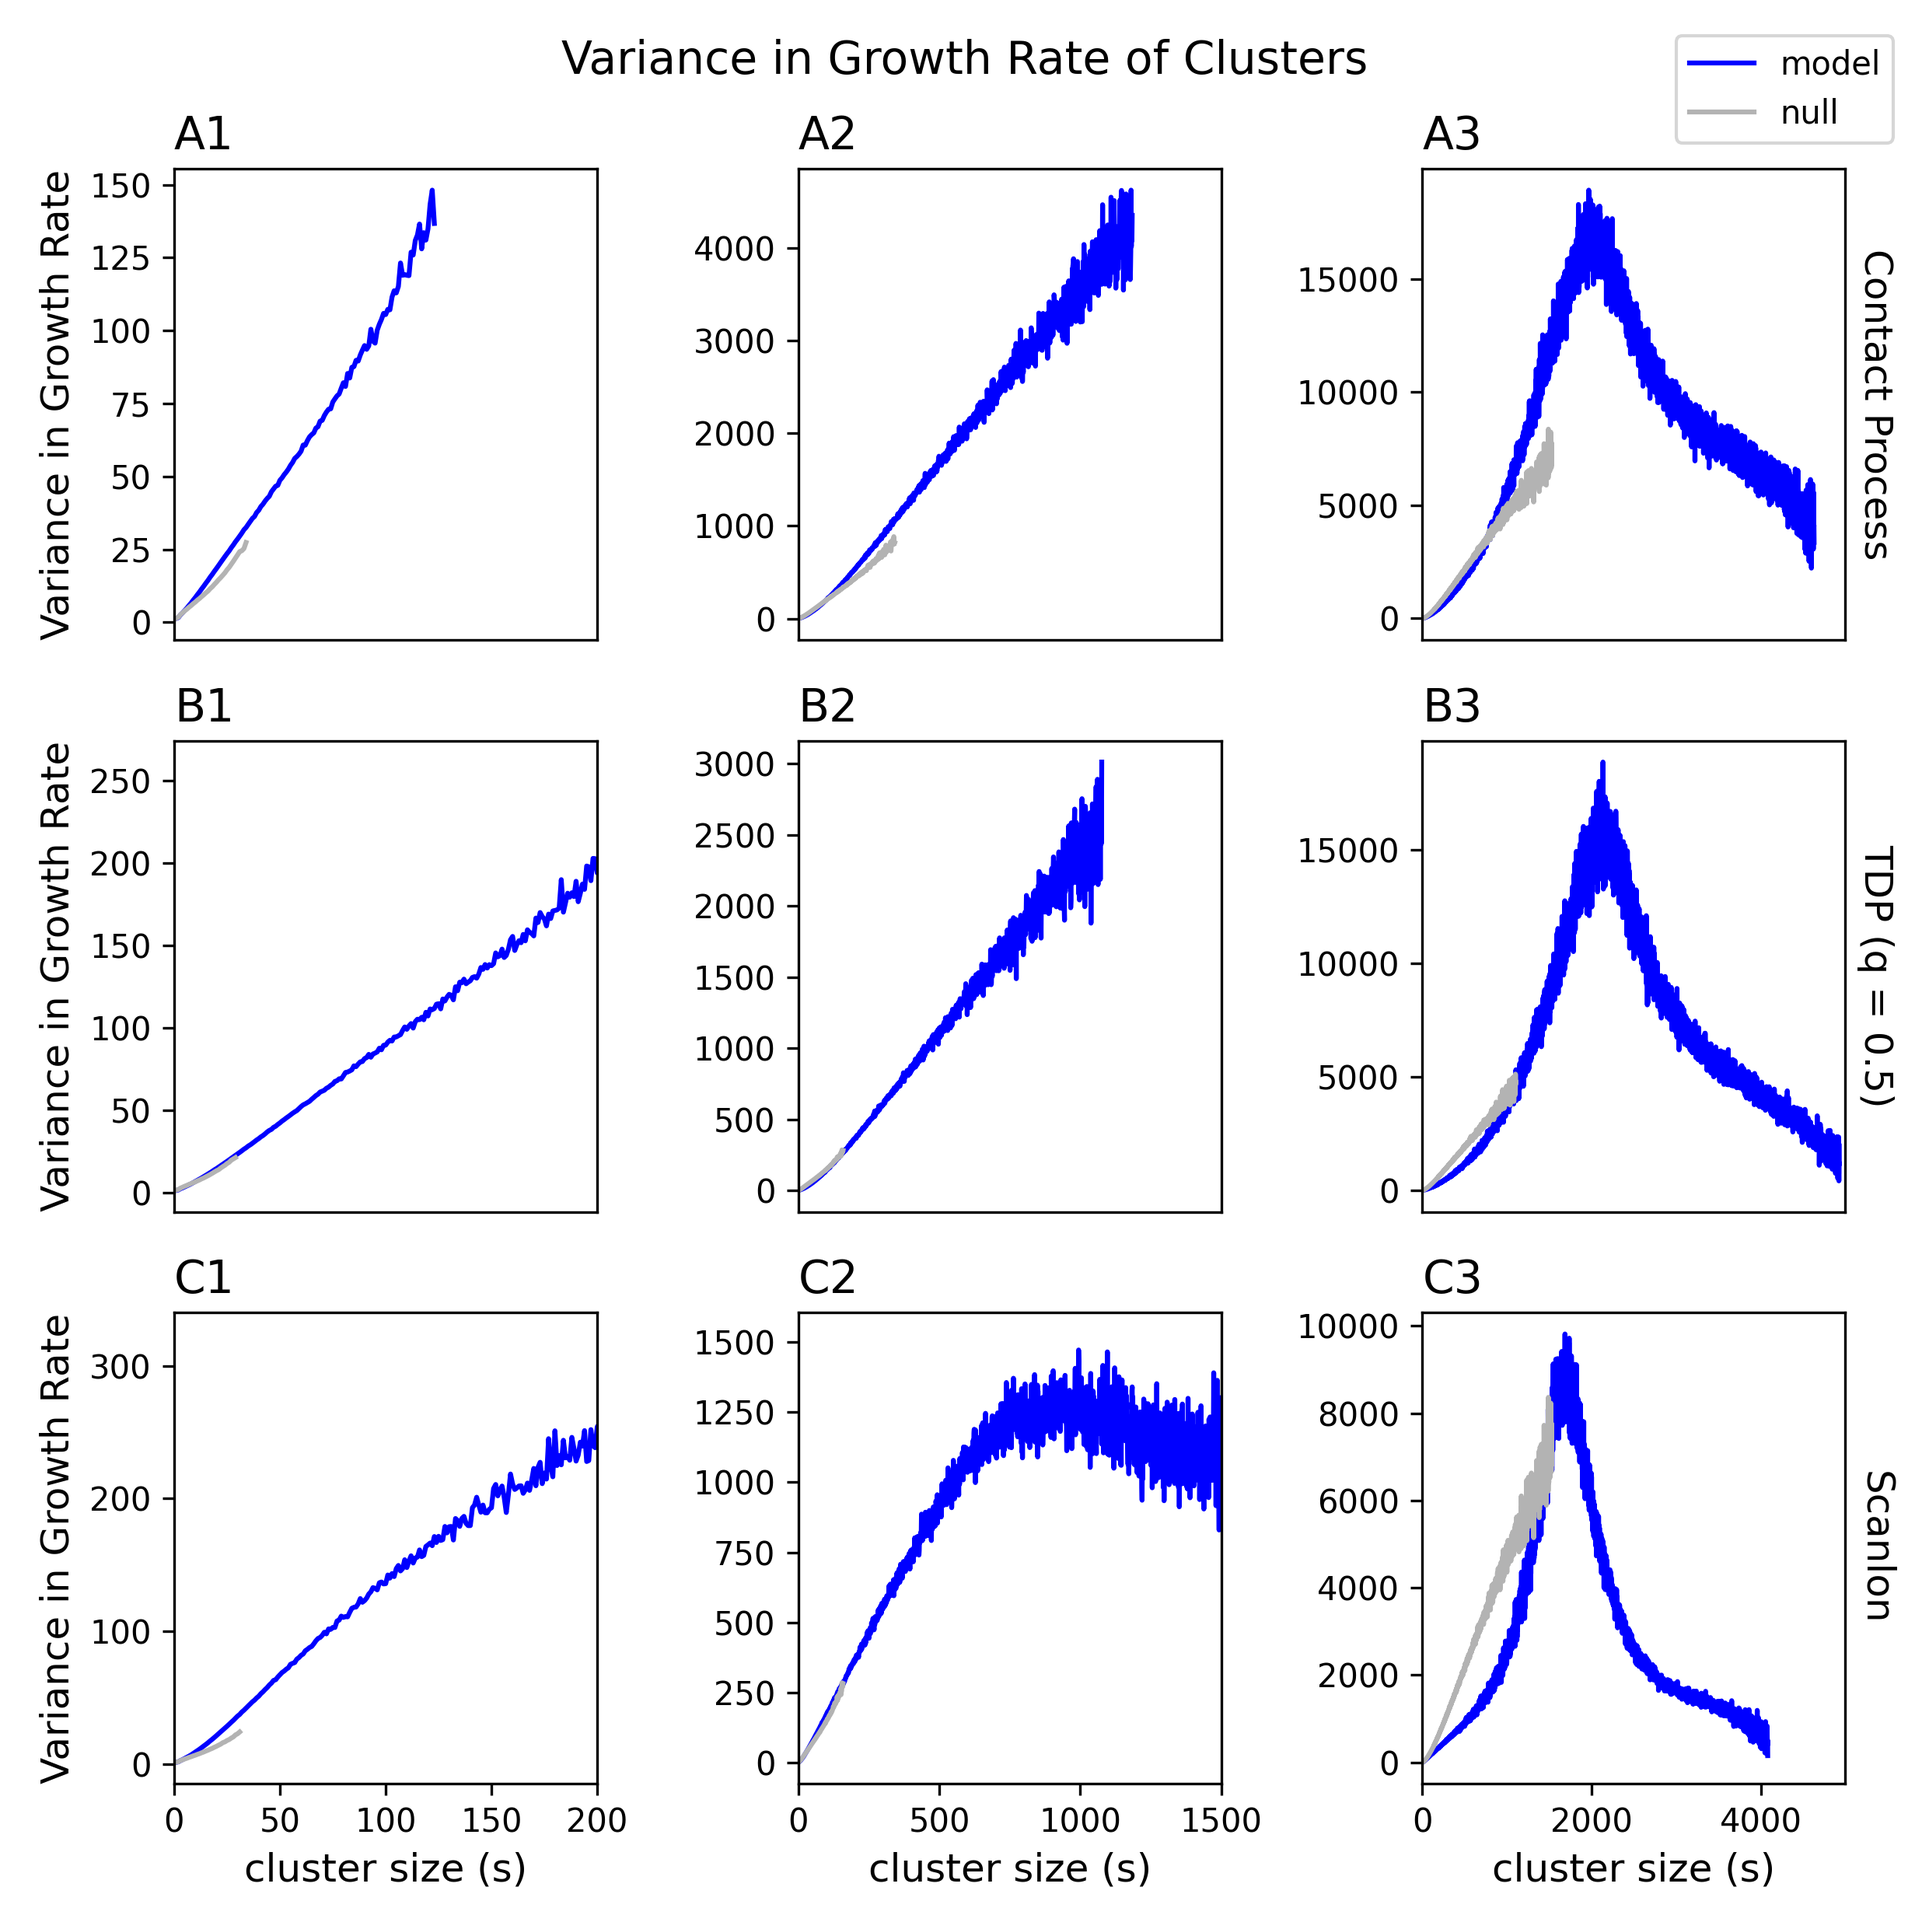
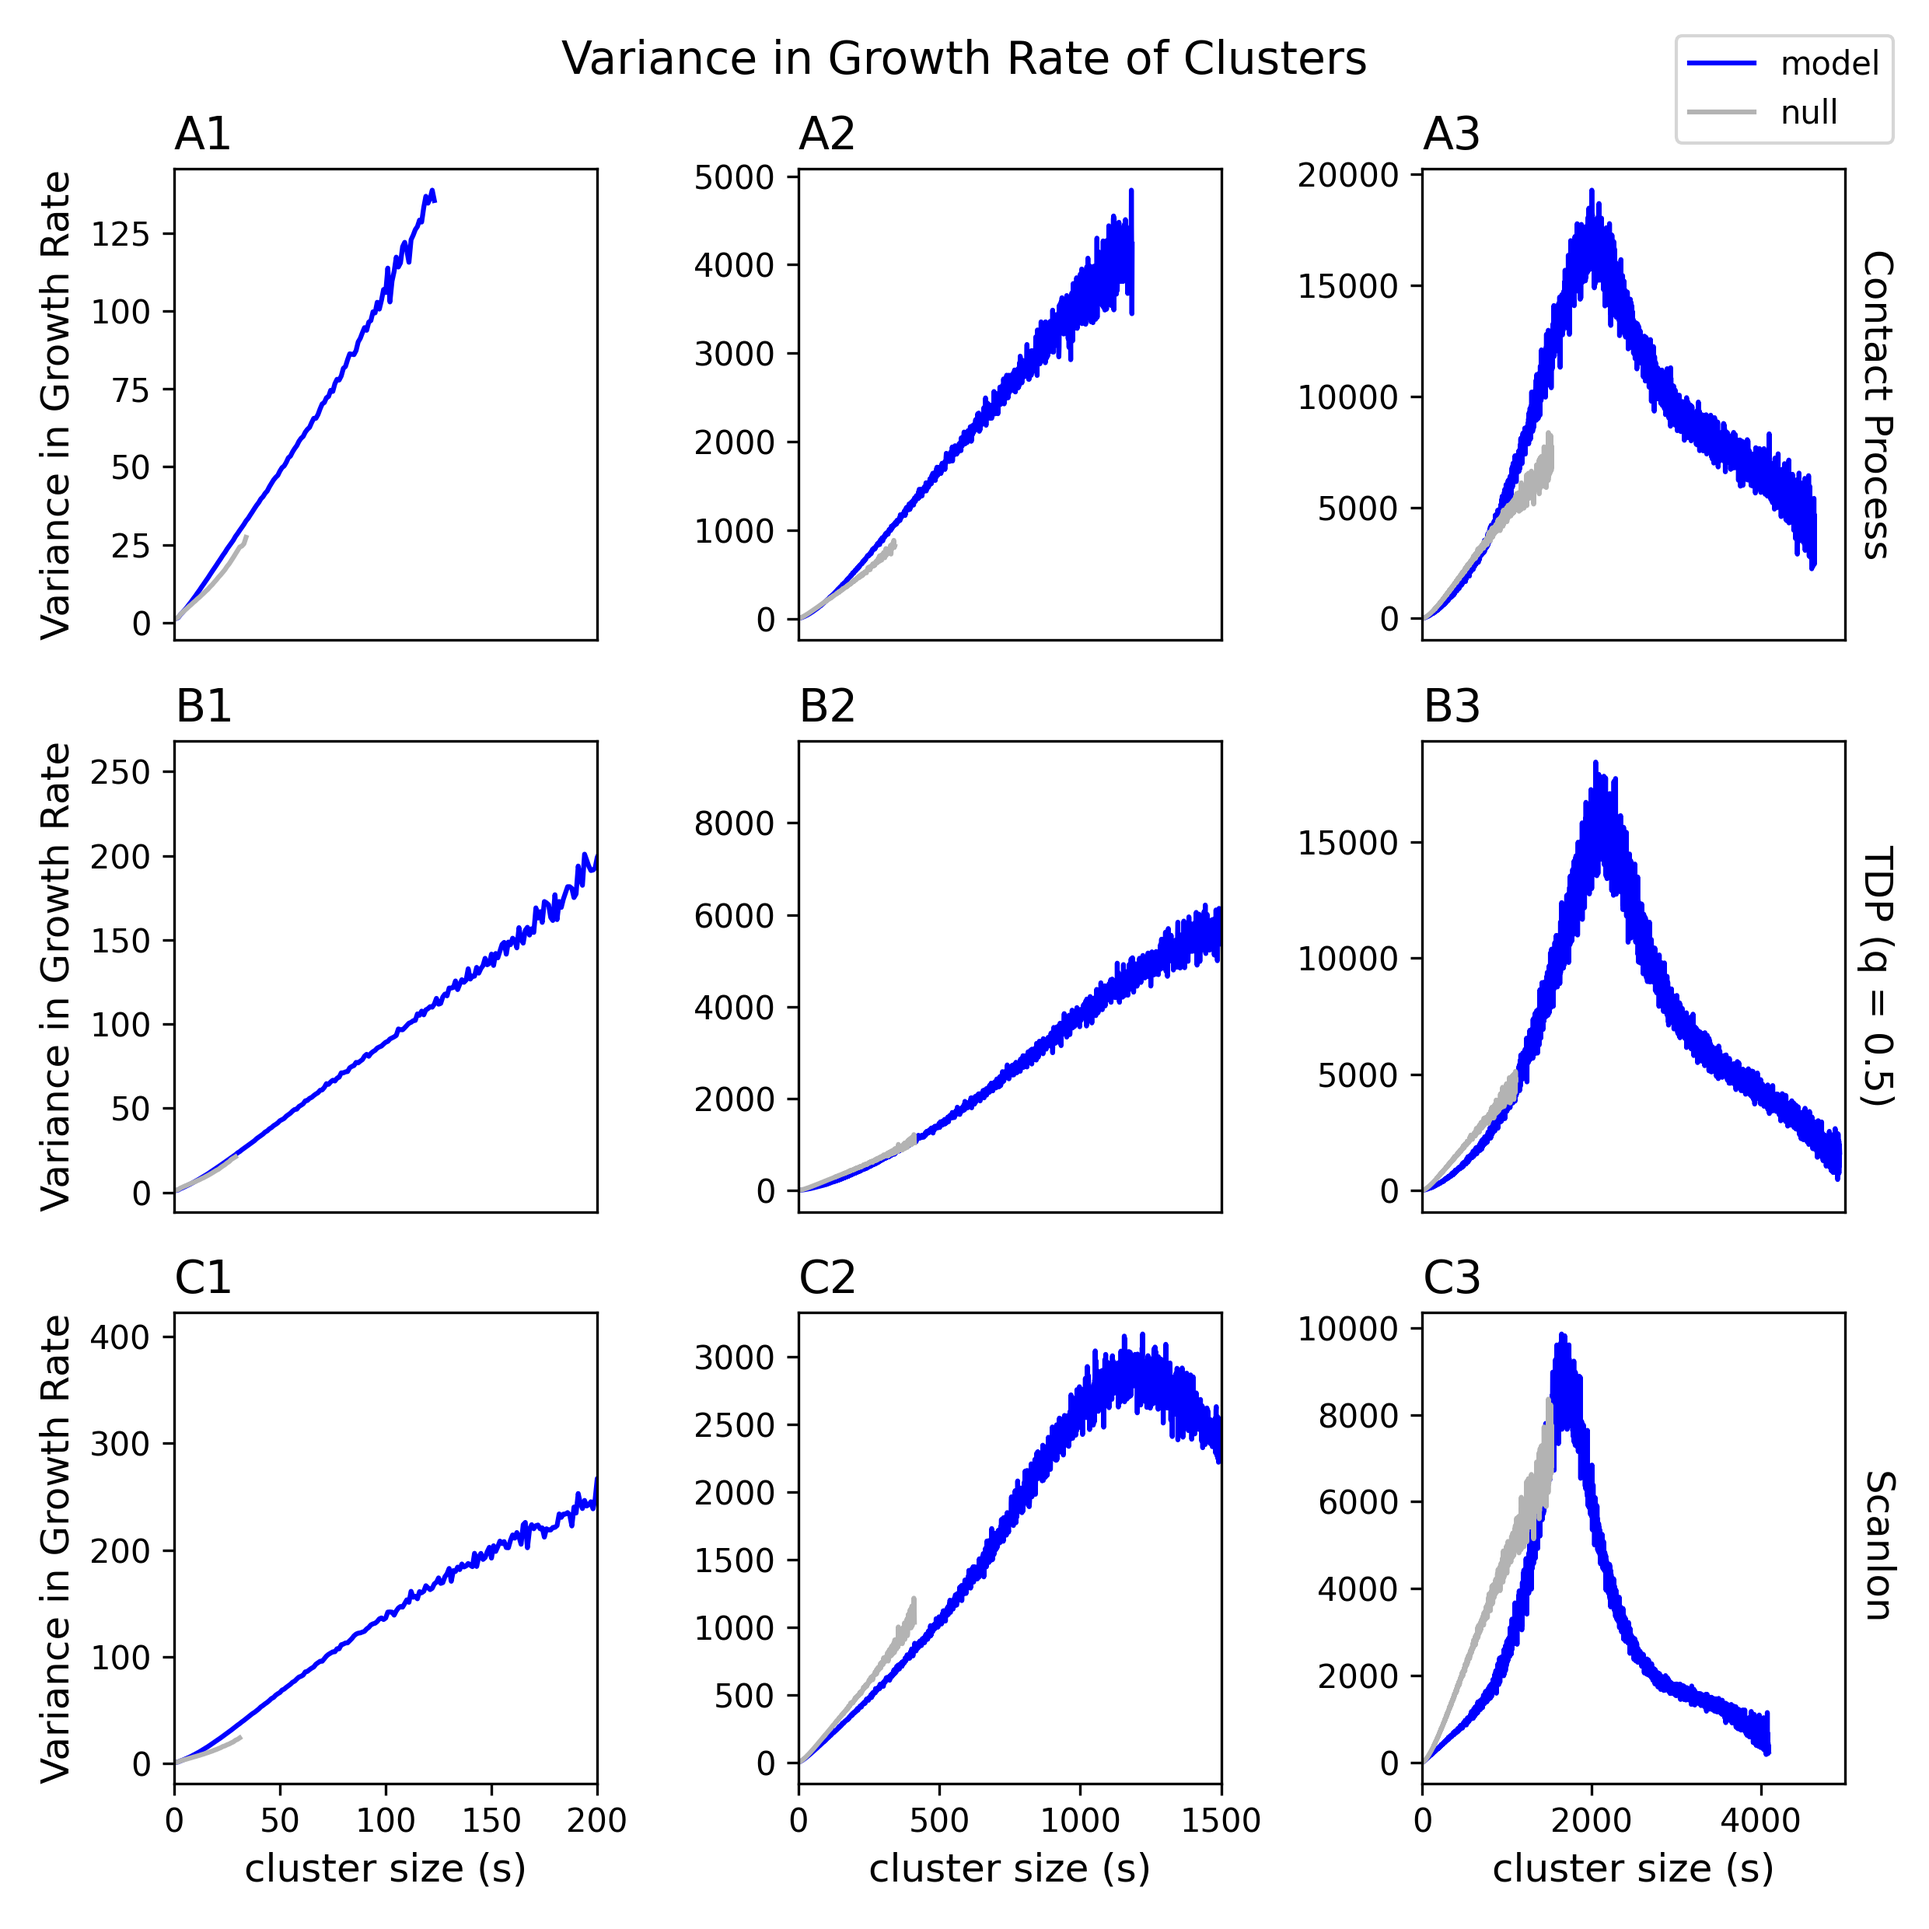
Updated main figures

diff --git a/plotters/fig4.py b/plotters/fig4.py
@@ -29,40 +29,40 @@ if __name__ == '__main__':
     model_datasets = []
     model_variables = []
 
-    # models.append(path.join("tricritical", "q0"))
-    # model_names.append("Contact Process")
-    # model_datasets.append("100x100_residue")
-    # model_params.append([0.65, 0.7, 0.72])
-    # model_densities.append([0.27, 0.48, 0.54])
-    # model_variables.append("p")
+    models.append(path.join("tricritical", "q0"))
+    model_names.append("Contact Process")
+    model_datasets.append("paper")
+    model_params.append([0.65, 0.7, 0.72])
+    model_densities.append([0.27, 0.48, 0.54])
+    model_variables.append("p")
     
-    # models.append(path.join("tricritical", "q0p5"))
-    # model_names.append("TDP (q = 0.5)")
+    models.append(path.join("tricritical", "q0p5"))
+    model_names.append("TDP (q = 0.5)")
+    model_datasets.append("paper")
+    model_params.append([0.51, 0.54, 0.55])
+    model_densities.append([0.25, 0.49, 0.53])
+    model_variables.append("p")
+
+    models.append(path.join("scanlon_kalahari"))
+    model_names.append("Scanlon")
+    model_datasets.append("paper")
+    model_params.append([500, 770, 830])
+    model_densities.append([0.26, 0.49, 0.54])
+    model_variables.append("rainfall")
+
+    # models.append(path.join("tricritical", "q0p25"))
+    # model_names.append("TDP (q = 0.25)")
     # model_datasets.append("100x100_residue")
-    # model_params.append([0.51, 0.53, 0.55])
-    # model_densities.append([0.25, 0.43, 0.53])
+    # model_params.append([0.59, 0.62, 0.64])
+    # model_densities.append([0.27, 0.45, 0.52])
     # model_variables.append("p")
 
-    # models.append(path.join("scanlon_kalahari"))
-    # model_names.append("Scanlon")
+    # models.append(path.join("tricritical", "q0p75"))
+    # model_names.append("TDP (q = 0.75)")
     # model_datasets.append("100x100_residue")
-    # model_params.append([500, 700, 830])
-    # model_densities.append([0.26, 0.43, 0.54])
-    # model_variables.append("rainfall")
-
-    models.append(path.join("tricritical", "q0p25"))
-    model_names.append("TDP (q = 0.25)")
-    model_datasets.append("100x100_residue")
-    model_params.append([0.59, 0.62, 0.64])
-    model_densities.append([0.27, 0.45, 0.52])
-    model_variables.append("p")
-
-    models.append(path.join("tricritical", "q0p75"))
-    model_names.append("TDP (q = 0.75)")
-    model_datasets.append("100x100_residue")
-    model_params.append([0.405, 0.41, 0.42])
-    model_densities.append([0.24, 0.38, 0.52])
-    model_variables.append("p")
+    # model_params.append([0.405, 0.41, 0.42])
+    # model_densities.append([0.24, 0.38, 0.52])
+    # model_variables.append("p")
 
     title_size = 14
     label_size = 12

diff --git a/plotters/fig2_exp.py b/plotters/fig2_exp.py
@@ -55,26 +55,24 @@ if __name__ == '__main__':
 
     models.append(path.join("tricritical", "q0"))
     model_names.append("Contact Process")
-    model_datasets.append("100x100_residue")
-    # model_params.append([0.65, 0.7, 0.72])
-    model_params.append([0.616, 0.618, 0.62])
+    model_datasets.append("paper")
+    model_params.append([0.65, 0.7, 0.72])
     model_densities.append([0.27, 0.48, 0.54])
     model_variables.append("p")
     
     models.append(path.join("tricritical", "q0p5"))
     model_names.append("TDP (q = 0.5)")
-    model_datasets.append("100x100_residue")
-    # model_params.append([0.51, 0.53, 0.55])
-    model_params.append([0.498, 0.5, 0.502])
-    model_densities.append([0.25, 0.43, 0.53])
+    model_datasets.append("paper")
+    model_params.append([0.51, 0.54, 0.55])
+    model_densities.append([0.25, 0.49, 0.53])
     model_variables.append("p")
 
-    # models.append(path.join("scanlon_kalahari"))
-    # model_names.append("Scanlon")
-    # model_datasets.append("100x100_residue")
-    # model_params.append([500, 700, 830])
-    # model_densities.append([0.26, 0.43, 0.54])
-    # model_variables.append("rainfall")
+    models.append(path.join("scanlon_kalahari"))
+    model_names.append("Scanlon")
+    model_datasets.append("paper")
+    model_params.append([500, 770, 830])
+    model_densities.append([0.26, 0.49, 0.54])
+    model_variables.append("rainfall")
 
     # models.append(path.join("tricritical", "q0p25"))
     # model_names.append("TDP (q = 0.25)")
@@ -144,14 +142,11 @@ if __name__ == '__main__':
 
             plt.ylim(10 ** (-10), 1)
             if j == 0:
-                # plt.xlim(1, 200)
-                plt.xlim(1, 100)
+                plt.xlim(1, 500)
             elif j == 1:
-                # plt.xlim(1, 1500)
-                plt.xlim(1, 100)
+                plt.xlim(1, 2000)
             elif j == 2:
-                # plt.xlim(1, 3000)
-                plt.xlim(1, 100)
+                plt.xlim(1, 3000)
 
             if row != num_rows - 1:
                 plt.xticks([])

diff --git a/plotters/fig5.py b/plotters/fig5.py
@@ -4,9 +4,10 @@ from tqdm import tqdm
 
 
 def load_residue_data(file_path, file_name, cluster_size):
+    print(file_path, file_name, cluster_size)
     residue_data = open(path.join(file_path, file_name), "r").readlines()
 
-    for data in residue_data[:-1]:
+    for data in residue_data:
         size, bins, freq = data.split(':')
         min_bin, max_bin = bins.split(',')
         freqs = list(map(int, freq.split(',')))
@@ -22,7 +23,7 @@ def load_residue_data(file_path, file_name, cluster_size):
 if __name__ == '__main__':
     results_path = path.join(path.dirname(__file__), "..", "results")
     cluster_sizes = [10, 50, 100]
-    position = 3
+    position = 1
 
     models = []
     model_names = []
@@ -32,15 +33,15 @@ if __name__ == '__main__':
 
     models.append(path.join("tricritical", "q0"))
     model_names.append("Contact Process")
-    model_datasets.append("100x100_residue")
+    model_datasets.append("paper")
 
     models.append(path.join("tricritical", "q0p5"))
     model_names.append("TDP (q = 0.5)")
-    model_datasets.append("100x100_residue")
+    model_datasets.append("paper")
 
     models.append(path.join("scanlon_kalahari"))
     model_names.append("Scanlon")
-    model_datasets.append("100x100_residue")
+    model_datasets.append("paper")
 
     if position == 1:
         cluster_sizes = [10, 20, 30]
@@ -59,11 +60,11 @@ if __name__ == '__main__':
         model_params.append(0.7)
         model_densities.append(0.48)
 
-        model_params.append(0.53)
-        model_densities.append(0.43)
+        model_params.append(0.54)
+        model_densities.append(0.49)
 
-        model_params.append(700)
-        model_densities.append(0.43)
+        model_params.append(770)
+        model_densities.append(0.49)
     elif position == 3:
         cluster_sizes = [10, 50, 100]
 

diff --git a/plotters/fig3.py b/plotters/fig3.py
@@ -40,14 +40,14 @@ if __name__ == '__main__':
     model_names.append("TDP (q = 0.5)")
     model_datasets.append("paper")
     model_params.append([0.51, 0.54, 0.55])
-    model_densities.append([0.25, 0.43, 0.53])
+    model_densities.append([0.25, 0.49, 0.53])
     model_variables.append("p")
 
     models.append(path.join("scanlon_kalahari"))
     model_names.append("Scanlon")
     model_datasets.append("paper")
     model_params.append([500, 770, 830])
-    model_densities.append([0.26, 0.43, 0.54])
+    model_densities.append([0.26, 0.49, 0.54])
     model_variables.append("rainfall")
 
     # models.append(path.join("tricritical", "q0p25"))
@@ -115,7 +115,7 @@ if __name__ == '__main__':
             if j == 0:
                 plt.xlim([0, 100])
             elif j == 1:
-                plt.xlim([0, 1000])
+                plt.xlim([0, 1500])
             elif j == 2:
                 plt.xlim([0, 5000])
 

diff --git a/plotters/fig2.py b/plotters/fig2.py
@@ -64,14 +64,14 @@ if __name__ == '__main__':
     model_names.append("TDP (q = 0.5)")
     model_datasets.append("paper")
     model_params.append([0.51, 0.54, 0.55])
-    model_densities.append([0.25, 0.43, 0.53])
+    model_densities.append([0.25, 0.49, 0.53])
     model_variables.append("p")
 
     models.append(path.join("scanlon_kalahari"))
     model_names.append("Scanlon")
     model_datasets.append("paper")
     model_params.append([500, 770, 830])
-    model_densities.append([0.26, 0.43, 0.54])
+    model_densities.append([0.26, 0.49, 0.54])
     model_variables.append("rainfall")
 
     # models.append(path.join("tricritical", "q0p25"))
